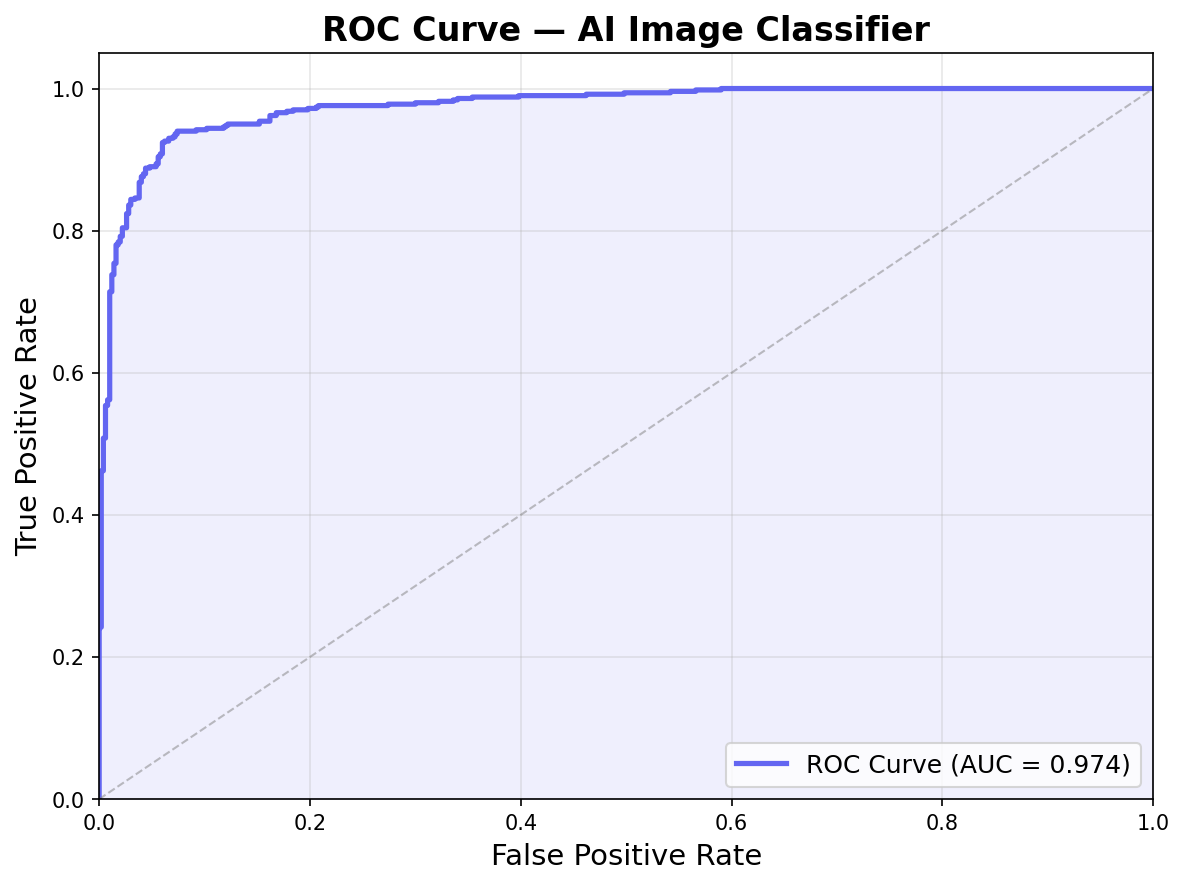
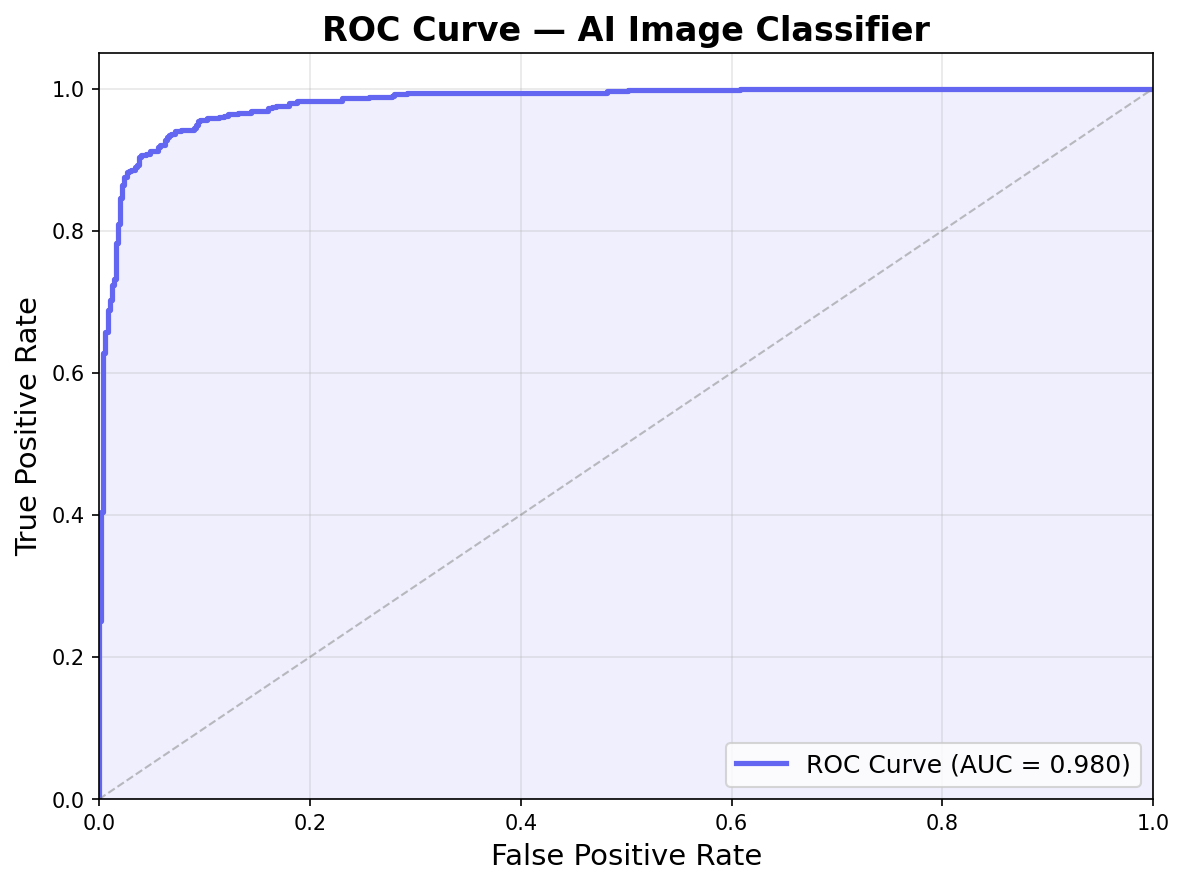
docs & metrics: Final evaluation results from 15-epoch training run on authentic dataset
- Achieved final test accuracy of 93.4% and ROC AUC of 0.980
- Saved training curves plot (training_curves.png) to evaluation_report directory
- Updated README.md and metrics.json with final balanced precision/recall metrics

diff --git a/README.md b/README.md
@@ -63,10 +63,10 @@ The classifier was fine-tuned on an authentic dataset of **3,000 genuine images*
 
 | Metric | Score |
 |--------|-------|
-| **Accuracy** | **92.3%** |
-| **ROC AUC** | **0.9745** |
-| **FAKE Class (Stable Diffusion) Precision / Recall** | **90.8% / 94.2% (F1 = 0.924)** |
-| **REAL Class (CIFAR-10 Photos) Precision / Recall** | **94.0% / 90.4% (F1 = 0.921)** |
+| **Accuracy** | **93.4%** |
+| **ROC AUC** | **0.980** |
+| **FAKE Class (Stable Diffusion) Precision / Recall** | **93.2% / 93.6% (F1 = 0.934)** |
+| **REAL Class (CIFAR-10 Photos) Precision / Recall** | **93.6% / 93.2% (F1 = 0.934)** |
 | **Test Set Size** | **1,000 authentic evaluation samples** |
 
 ---
